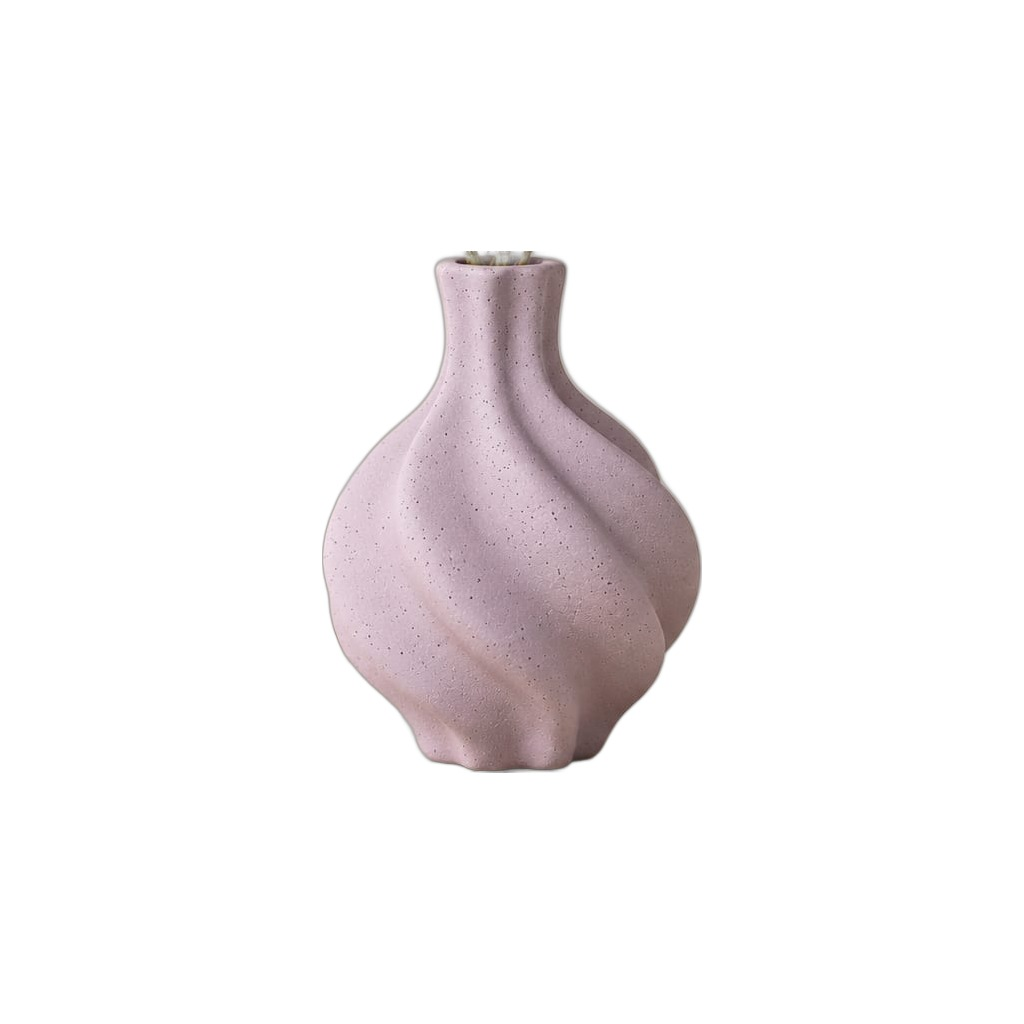
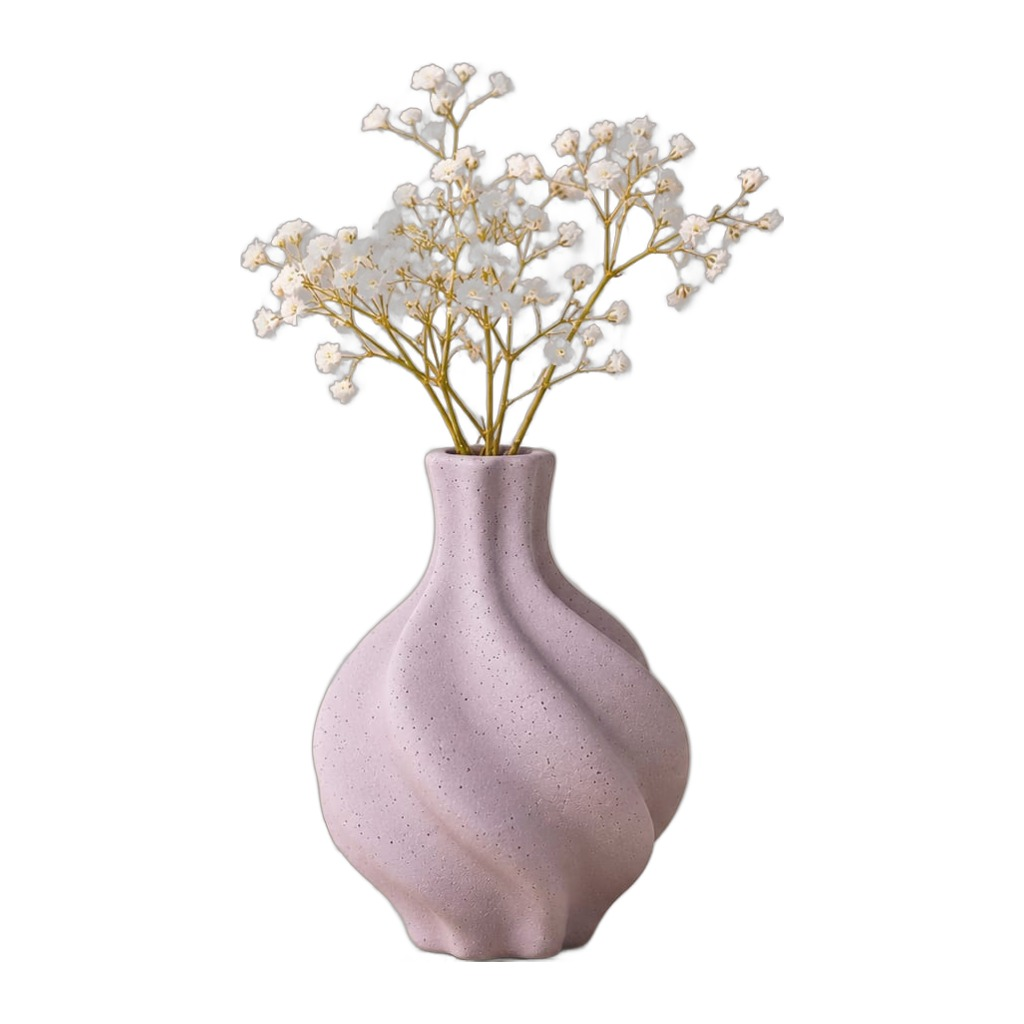
AI design: vases always shown with their flowers (FLOWERS map + mandatory prompt rule); p6/p89 references with flowers
Claude-Session: https://claude.ai/code/session_01NDMxpGu9JYTL5ahwxySGAv

Changed region(s): [[0.2188, 0.0625, 0.7812, 0.9375]]

diff --git a/index.html b/index.html
@@ -1093,7 +1093,8 @@ const ROLES={"p34":{role:"lean"},"p35":{role:"lean"},"p36":{role:"lean"},"p36a":
 const PARTS={"p2":[25,19.4],"p3":[25.1,20],"p91":[35,31,27],"p117":[17.5,13]};
 // Real product sizes for the AI photo (the layout height alone is not enough for flat or round pieces).
 // Add one line for every new product whose shape is wide/flat/round.
-const DIMS={"p6":"small lilac speckled ceramic spiral-twist bud vase, 6 cm wide x 9 cm tall (a small item, sold empty)","p89":"small round ribbed cream ceramic ball vase, 11 cm wide x 9 cm tall (a small item, sold empty)","p82":"flat rectangular-oval Nordic ceramic serving tray, 35 cm long x 18 cm wide, about 3 cm high","p83":"round Nordic ceramic serving plate, 27 cm diameter, about 5.5 cm high","p72":"pair of low ribbed ceramic candlestick holders for taper candles, each about 7.5 cm wide x 6.5 cm tall (small, low pieces)","p2":"pair of white ceramic tea-light holders: tall piece 25 cm, short piece 19.4 cm, each with an 8 cm base","p130":"slim upright cream gift box with a window holding two smooth cream taper candles, box about 8 cm wide x 25.5 cm tall x 2.5 cm deep","p129":"slim upright gift box with a window holding two twisted powder-pink taper candles, box about 8 cm wide x 25.5 cm tall x 2.5 cm deep","p45":"Greek-style beach towel folded and tied with twine and an evil-eye charm, folded bundle 20 cm wide x 33 cm tall, about 5 cm thick","p63":"chef knife in its slim gift box, 36 cm long x 6 cm wide x 2.5 cm thick — long and flat, lies flat","p54":"acacia-wood salt and pepper shaker pair standing on a small acacia tray, whole set 15.7 cm wide x 8.8 cm deep x 9 cm tall (a small item)","p55":"pair of acacia-wood salad servers (spoon + fork) tied with jute twine, 26 cm long, about 7 cm wide","p114":"7.5 cm wide x 21 cm tall","p115":"flat pebble-shaped tray 24 cm long x 15 cm wide (10.5 cm at the narrow end), about 2 cm high","p116":"flat pebble-shaped tray 24 cm long x 15 cm wide (10.5 cm at the narrow end), about 2 cm high","p118":"round wavy bowl 25.5 cm diameter (25.5 x 25.5 cm), low and wide","p36":"acacia wood cutting board 34 cm x 24 cm, 2 cm thick, with juice groove","p122":"set of two soft padded cream fabric pieces: an oven mitt 30 cm tall x 15 cm wide and a pot holder 23 cm tall x 18 cm wide, each about 2 cm thick with a hanging loop","p123":"round white ceramic salad bowl with two cobalt-blue bands inside and a gently wavy rim, 20 cm diameter, 7 cm high","p124":"flat oval ceramic serving platter 30 cm long x 15 cm wide, about 3 cm high, white with fine cobalt-blue radiating lines and a blue centre, thin brown rim","p125":"round bamboo-fibre salad bowl, matte white outside and spun orange-bamboo inside, 23 cm diameter, 10 cm high","p126":"folded waffle-weave tablecloth (170 x 330 cm when open) gift-wrapped as a flat square package about 25 x 25 cm and 5 cm thick, white, with cream ribbon bow and NOYA MAISON tag","p127":"folded waffle-weave tablecloth (170 x 330 cm when open) gift-wrapped as a flat square package about 25 x 25 cm and 5 cm thick, cream, with cream ribbon bow and NOYA MAISON tag","p84":"folded white lace tablecloth (150 x 300 cm when open) gift-wrapped as a flat square package about 25 x 25 cm and 5 cm thick, with cream ribbon bow and NOYA MAISON tag","p128":"small evil-eye amulet: flat cobalt-blue resin disc 5 cm diameter with white mandala pattern and eye, silver clasp and a short blue cord loop, about 10 cm long overall","p119":"serving stand 31 cm long x 11 cm wide with three 220 ml clear glass jars with dark wooden lids and round wooden knobs, about 11 cm tall","p117":"two holders: 5.5 cm diameter, 13 cm and 17.5 cm tall"};
+const FLOWERS={"p5":"a small bunch of dried beige-cream gypsophila","p114":"a single long-stemmed peach rose","p6":"a bunch of small white gypsophila (baby's breath)","p20":"a bunch of dried white gypsophila","p21":"a bunch of dried white gypsophila","p23":"a few stems of dried lilac flowers","p24":"a bunch of dried lilac-white gypsophila","p41":"three white tulips with green stems and leaves","p42":"three pale-lilac tulips with green stems and leaves","p43":"a full dome of white gypsophila","p44":"a full dome of white gypsophila","p89":"a bunch of white gypsophila (baby's breath)","p90":"a few stems of dried royal-blue flowers","p100":"a full bunch of white gypsophila","p101":"a full bunch of white gypsophila"};
+const DIMS={"p6":"small lilac speckled ceramic spiral-twist bud vase, the vase itself 6 cm wide x 9 cm tall (a small item)","p89":"small round ribbed cream ceramic ball vase, the vase itself 11 cm wide x 9 cm tall (a small item)","p82":"flat rectangular-oval Nordic ceramic serving tray, 35 cm long x 18 cm wide, about 3 cm high","p83":"round Nordic ceramic serving plate, 27 cm diameter, about 5.5 cm high","p72":"pair of low ribbed ceramic candlestick holders for taper candles, each about 7.5 cm wide x 6.5 cm tall (small, low pieces)","p2":"pair of white ceramic tea-light holders: tall piece 25 cm, short piece 19.4 cm, each with an 8 cm base","p130":"slim upright cream gift box with a window holding two smooth cream taper candles, box about 8 cm wide x 25.5 cm tall x 2.5 cm deep","p129":"slim upright gift box with a window holding two twisted powder-pink taper candles, box about 8 cm wide x 25.5 cm tall x 2.5 cm deep","p45":"Greek-style beach towel folded and tied with twine and an evil-eye charm, folded bundle 20 cm wide x 33 cm tall, about 5 cm thick","p63":"chef knife in its slim gift box, 36 cm long x 6 cm wide x 2.5 cm thick — long and flat, lies flat","p54":"acacia-wood salt and pepper shaker pair standing on a small acacia tray, whole set 15.7 cm wide x 8.8 cm deep x 9 cm tall (a small item)","p55":"pair of acacia-wood salad servers (spoon + fork) tied with jute twine, 26 cm long, about 7 cm wide","p114":"7.5 cm wide x 21 cm tall","p115":"flat pebble-shaped tray 24 cm long x 15 cm wide (10.5 cm at the narrow end), about 2 cm high","p116":"flat pebble-shaped tray 24 cm long x 15 cm wide (10.5 cm at the narrow end), about 2 cm high","p118":"round wavy bowl 25.5 cm diameter (25.5 x 25.5 cm), low and wide","p36":"acacia wood cutting board 34 cm x 24 cm, 2 cm thick, with juice groove","p122":"set of two soft padded cream fabric pieces: an oven mitt 30 cm tall x 15 cm wide and a pot holder 23 cm tall x 18 cm wide, each about 2 cm thick with a hanging loop","p123":"round white ceramic salad bowl with two cobalt-blue bands inside and a gently wavy rim, 20 cm diameter, 7 cm high","p124":"flat oval ceramic serving platter 30 cm long x 15 cm wide, about 3 cm high, white with fine cobalt-blue radiating lines and a blue centre, thin brown rim","p125":"round bamboo-fibre salad bowl, matte white outside and spun orange-bamboo inside, 23 cm diameter, 10 cm high","p126":"folded waffle-weave tablecloth (170 x 330 cm when open) gift-wrapped as a flat square package about 25 x 25 cm and 5 cm thick, white, with cream ribbon bow and NOYA MAISON tag","p127":"folded waffle-weave tablecloth (170 x 330 cm when open) gift-wrapped as a flat square package about 25 x 25 cm and 5 cm thick, cream, with cream ribbon bow and NOYA MAISON tag","p84":"folded white lace tablecloth (150 x 300 cm when open) gift-wrapped as a flat square package about 25 x 25 cm and 5 cm thick, with cream ribbon bow and NOYA MAISON tag","p128":"small evil-eye amulet: flat cobalt-blue resin disc 5 cm diameter with white mandala pattern and eye, silver clasp and a short blue cord loop, about 10 cm long overall","p119":"serving stand 31 cm long x 11 cm wide with three 220 ml clear glass jars with dark wooden lids and round wooden knobs, about 11 cm tall","p117":"two holders: 5.5 cm diameter, 13 cm and 17.5 cm tall"};
 const RIDE=new Set([]);
 const LIE0={};
 const SOFT0=new Set([]);
@@ -1844,7 +1845,7 @@ async function generateAi(force){
     const SURF=new Set(["p34","p35","p36","p36a","p37","p38","p75","p75a","p82","p83","p59","p69","p115","p116","p124"]);   // boards, trays, plates, placemats
     const REED=new Set(["p105","p106","p108","p109","p110","p111"]);   // reed diffusers (stand on a tray in the AI photo)
     const BOWL=new Set(["p118","p123","p125"]);   // decorative bowls (may hold 1–2 small items)
-    const items=[...cart].map(([id,q])=>{const p=byId[id];return {id,name:p.name,qty:q,heightCm:p.h,box:boxed.has(id),kind:p.cat==="holder"?"candleholder":SURF.has(id)?"surface":REED.has(id)?"diffuser":BOWL.has(id)?"bowl":"",parts:PARTS[id]||null,dims:DIMS[id]||"",
+    const items=[...cart].map(([id,q])=>{const p=byId[id];return {id,name:p.name,qty:q,heightCm:p.h,box:boxed.has(id),kind:p.cat==="holder"?"candleholder":SURF.has(id)?"surface":REED.has(id)?"diffuser":BOWL.has(id)?"bowl":"",parts:PARTS[id]||null,dims:DIMS[id]||"",flowers:FLOWERS[id]||"",
       role:p===hero?"hero":p.role==="plat"?"tray":p.role==="lean"?"leaning":(byId[id].lie||byId[id].role==="lie")?"lying":R.planes.back.includes(p)?"back":R.planes.front.includes(p)?"front":"middle"};});
     aiCtrl=new AbortController();const to=setTimeout(()=>aiCtrl.abort(),150000);
     const r=await fetch(AI_ENDPOINT,{method:"POST",headers:{"Content-Type":"application/json"},signal:aiCtrl.signal,

diff --git a/api/design.js b/api/design.js
@@ -20,7 +20,7 @@ const cleanDims = s => String(s || "").replace(/[^\p{L}\p{N} +\-.,()x/]/gu, "").
 const PACK_FILES = { box0: "pack/box0.webp", box1: "pack/box1.webp", box2: "pack/box2.webp", "42": "pack/42.webp", "31": "pack/31.webp", "39": "pack/39.webp" };
 
 function prompt(items, pack, variant, manual) {
-  const list = items.map((it, i) => `${i + 1}. ${it.name} — quantity ${it.qty}, ${it.dims ? `REAL SIZE: ${it.dims}` : `about ${it.heightCm} cm tall`}, role: ${it.role}${it.kind === "candleholder" ? " — candle holder" + (it.parts ? ` SET: ${it.parts.length} separate pieces per set with DIFFERENT heights — ${it.parts.map((h, k) => `${k === 0 ? "tall" : k === it.parts.length - 1 ? "short" : "middle"} ${h} cm`).join(", ")} (show all ${it.parts.length * it.qty} pieces, each at its own true height)` : "") : it.kind === "surface" ? " — serving surface (board / tray / plate)" : it.kind === "diffuser" ? " — reed diffuser" : it.kind === "bowl" ? " — decorative bowl" : ""}${it.box ? " — WITH ITS OWN RETAIL BOX behind it" : ""}`).join("\n");
+  const list = items.map((it, i) => `${i + 1}. ${it.name} — quantity ${it.qty}, ${it.dims ? `REAL SIZE: ${it.dims}` : `about ${it.heightCm} cm tall`}, role: ${it.role}${it.kind === "candleholder" ? " — candle holder" + (it.parts ? ` SET: ${it.parts.length} separate pieces per set with DIFFERENT heights — ${it.parts.map((h, k) => `${k === 0 ? "tall" : k === it.parts.length - 1 ? "short" : "middle"} ${h} cm`).join(", ")} (show all ${it.parts.length * it.qty} pieces, each at its own true height)` : "") : it.kind === "surface" ? " — serving surface (board / tray / plate)" : it.kind === "diffuser" ? " — reed diffuser" : it.kind === "bowl" ? " — decorative bowl" : ""}${it.box ? " — WITH ITS OWN RETAIL BOX behind it" : ""}${it.flowers ? ` — VASE WITH FLOWERS: it must hold ${it.flowers}, exactly as in its product photo (mandatory, never show this vase empty)` : ""}`).join("\n");
   const boxed = items.filter(i => i.box), holders = items.filter(i => i.kind === "candleholder"), surfaces = items.filter(i => i.kind === "surface"), diffusers = items.filter(i => i.kind === "diffuser"), bowls = items.filter(i => i.kind === "bowl");
   const hero = items.find(i => i.role === "hero");
   const noPack = pack.id === "none"; // customer chose no packaging: products only
@@ -44,6 +44,7 @@ ${noPack ? "No packaging: arrange the products freely on the surface as an open 
 
 FIDELITY
 Reproduce each product as photographed: same shape, proportions, colours, materials, and any logo or label text that is physically printed on it. Keep true relative sizes: use each product's REAL SIZE where given (length, width, diameter, height) and the heights for the rest, so every piece keeps its real proportions next to the others — for example a 24 cm long flat tray is clearly longer than a 21 cm vase is tall, and a 25.5 cm bowl is wide and low. Never enlarge, shrink, stretch or reshape a product to fit the composition. Each product photo is shot at its own zoom, so the size of a product inside its photo means nothing — size every product only from its REAL SIZE / height in the list and from the layout sketch. Do not add, duplicate or remove products, and do not invent brands.
+VASES WITH FLOWERS (mandatory): every vase marked "VASE WITH FLOWERS" must appear holding exactly the flowers named for it, styled as in its product photo — same flower type, colour and amount, stems inside the vase, the bouquet in natural proportion to the vase (not oversized). Never show such a vase empty and never swap its flowers for others. These flowers are part of the product presentation, not extra props.
 STRICT PRODUCT FIDELITY: the products are real items for sale and must look identical to their photos and to the layout sketch. Do not restyle, redesign, recolour, reshape, simplify or "improve" any product; keep every ridge, groove, pattern, speckle, texture, finish and proportion exactly as shown. When in doubt, copy the product more literally, not more creatively.
 CLEAN LIGHTING ON PRODUCTS: the product photos were shot in other light and may contain baked-in shadows, dark patches, grey shading or reflections from that shoot. These are NOT part of the product: remove them and relight every product evenly with this scene's soft light, so each surface shows its true clean colour (a white piece stays clean white all over). Keep only natural soft scene shading and a gentle contact shadow on the surface beneath each item.
 ${boxed.length ? `ORIGINAL RETAIL BOXES (style them like a top prop stylist): each product marked "WITH ITS OWN RETAIL BOX" comes with its own branded box, visible in its photo. Place that box directly BEHIND its own product as an elegant backdrop for it:
@@ -90,7 +91,7 @@ export default async function handler(req, res) {
   try {
     const body = typeof req.body === "string" ? JSON.parse(req.body) : req.body || {};
     const items = (body.items || []).filter(i => /^[a-z0-9]{2,20}$/i.test(i.id)).slice(0, 12)
-      .map(i => ({ id: i.id, name: clean(i.name), qty: Math.max(1, Math.min(20, +i.qty || 1)), role: clean(i.role, 12), heightCm: Math.max(1, Math.min(80, +i.heightCm || 10)), box: !!i.box, kind: ["candleholder", "surface", "diffuser", "bowl"].includes(i.kind) ? i.kind : "", dims: cleanDims(i.dims), parts: Array.isArray(i.parts) && i.parts.length > 1 ? i.parts.slice(0, 4).map(h => Math.max(1, Math.min(80, +h || 0))).filter(h => h > 0) : null }));
+      .map(i => ({ id: i.id, name: clean(i.name), qty: Math.max(1, Math.min(20, +i.qty || 1)), role: clean(i.role, 12), heightCm: Math.max(1, Math.min(80, +i.heightCm || 10)), box: !!i.box, kind: ["candleholder", "surface", "diffuser", "bowl"].includes(i.kind) ? i.kind : "", dims: cleanDims(i.dims), flowers: clean(i.flowers || "", 80), parts: Array.isArray(i.parts) && i.parts.length > 1 ? i.parts.slice(0, 4).map(h => Math.max(1, Math.min(80, +h || 0))).filter(h => h > 0) : null }));
     if (items.length < 1) { res.status(400).json({ error: "need at least 1 product" }); return; }
     const pack = { id: clean(body.pack?.id, 8), name: clean(body.pack?.name) };
     const variant = Math.abs(+body.variant || 0);
